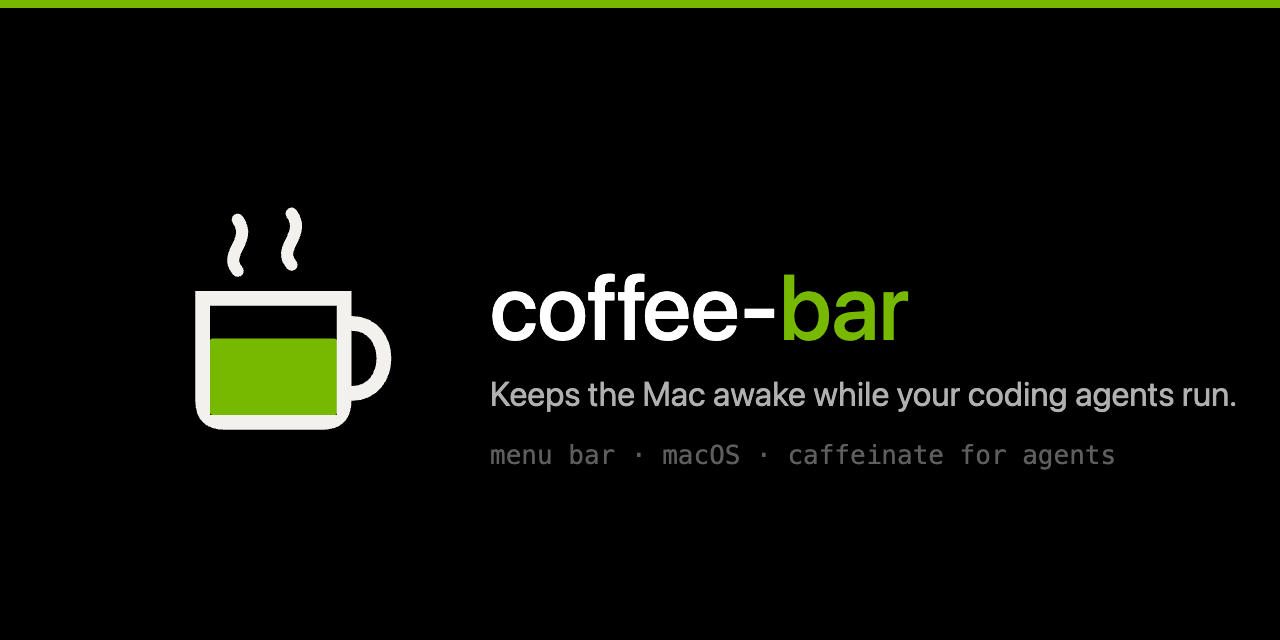
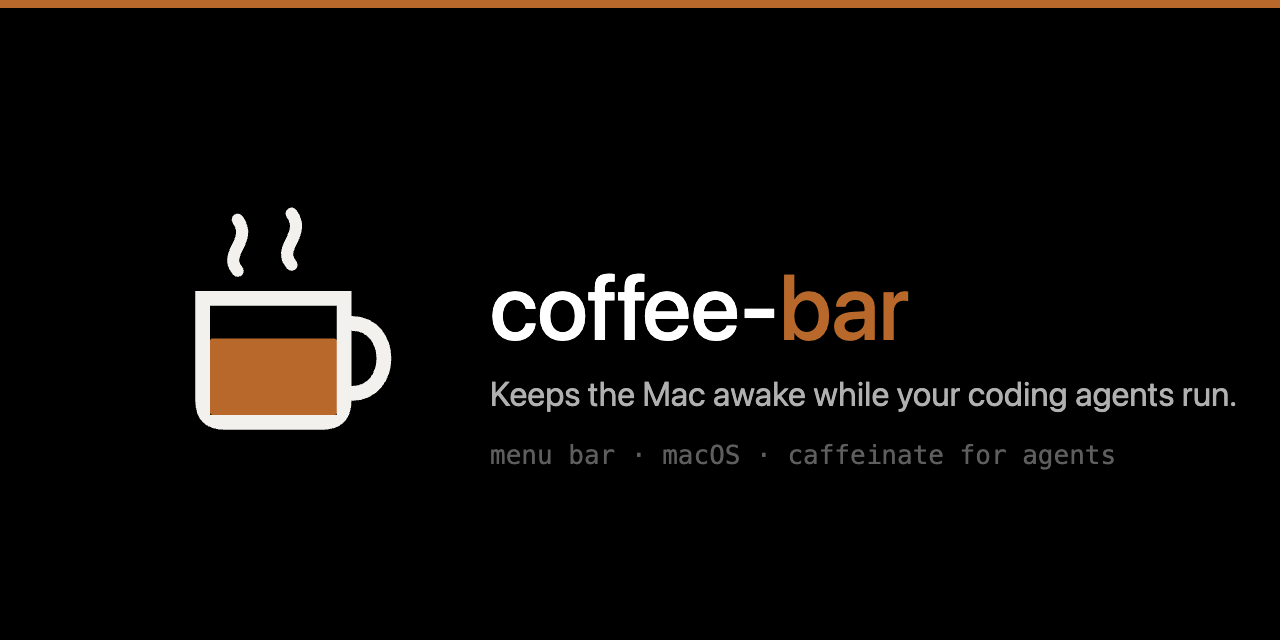
feat(art): recolour the six rasters that have no vector source
Four wordmarks and two composite GitHub images arrived as an external
export with nothing vector behind them, so they cannot be re-cut.

The remap rotates hue and keeps each pixel's saturation, value and alpha,
so an anti-aliased edge stays an edge instead of fringing. It refuses to
write a file where it matched no pixel, because a silent no-op is how a
substitution appears to succeed while changing nothing.

Appearance comes from an explicit table, not from a 'dark' substring in
the path. Both github/ images carry no appearance word and sit on
#000000, so a name test would hand them the light token, which is 3.92:1
on their own background and fails 4.5:1. The dark token is 5.05:1. The
table refuses a file it does not list rather than guessing a default,
and the census cannot see this class of mistake.

Changed region(s): [[0.0, 0.0, 1.0, 0.0312], [0.1562, 0.5312, 0.2812, 0.6562], [0.5938, 0.4375, 0.7188, 0.5312]]

diff --git a/assets/art/remap_test.py b/assets/art/remap_test.py
@@ -1,0 +1,232 @@
+#!/usr/bin/env python3
+# Copyright 2026 Carlos Eduardo Arango Gutierrez
+# SPDX-License-Identifier: Apache-2.0
+"""Checks for assets/art/remap.py — the recolour for the rasters with no source.
+
+Six files were delivered as an external export with no vector behind them, so
+they cannot be re-cut and are recoloured pixel by pixel. That makes this script
+destructive and unrepeatable: it rewrites shipped art in place, and the census
+that follows only proves the GREEN is gone, not that what replaced it is right.
+So the tests below pin what the census cannot see.
+
+Each test names the bug it catches. The colour facts are derived independently
+of remap.py: the two roast tokens come from assets/art/README.md, the composite
+expectations come from alpha algebra, and the routing expectation comes from the
+WCAG contrast formula implemented here rather than from remap.py's own table.
+
+Run: python3 assets/art/remap_test.py
+"""
+import importlib.util
+import pathlib
+import subprocess
+import sys
+import tempfile
+
+from PIL import Image
+
+REMAP_PATH = pathlib.Path(__file__).with_name("remap.py")
+
+# Resolve the subject relative to THIS file. A harness that reaches for a
+# copy somewhere else green-lights the wrong artifact.
+_spec = importlib.util.spec_from_file_location("remap_under_test", REMAP_PATH)
+remap_mod = importlib.util.module_from_spec(_spec)
+_spec.loader.exec_module(remap_mod)
+
+RETIRED = (0x76, 0xB9, 0x00)  # the accent being removed
+ROAST_LIGHT = (0xA2, 0x57, 0x1E)  # state, light appearance
+ROAST_DARK = (0xB8, 0x68, 0x2A)  # state, dark appearance
+
+ART = pathlib.Path(__file__).parent
+THE_SIX = [
+    ART / "github" / "readme-header-1600x400.png",
+    ART / "github" / "social-preview-1280x640.png",
+    ART / "wordmark" / "coffee-bar-wordmark-light.png",
+    ART / "wordmark" / "coffee-bar-wordmark-light-2x.png",
+    ART / "wordmark" / "coffee-bar-wordmark-dark.png",
+    ART / "wordmark" / "coffee-bar-wordmark-dark-2x.png",
+]
+
+
+def make_png(path, pixels):
+    """Write a 1-row RGBA PNG holding exactly `pixels`."""
+    image = Image.new("RGBA", (len(pixels), 1))
+    image.putdata([p if len(p) == 4 else p + (255,) for p in pixels])
+    image.save(path)
+    return path
+
+
+def read_png(path):
+    return list(Image.open(path).convert("RGBA").getdata())
+
+
+def relative_luminance(rgb):
+    """WCAG 2.1 relative luminance. Implemented here, not imported."""
+    out = 0.0
+    for channel, weight in zip(rgb, (0.2126, 0.7152, 0.0722)):
+        c = channel / 255
+        c = c / 12.92 if c <= 0.03928 else ((c + 0.055) / 1.055) ** 2.4
+        out += weight * c
+    return out
+
+
+def contrast(fg, bg):
+    a, b = relative_luminance(fg), relative_luminance(bg)
+    hi, lo = max(a, b), min(a, b)
+    return (hi + 0.05) / (lo + 0.05)
+
+
+def background_of(path):
+    """The most common opaque colour in a file — what the art was exported onto."""
+    colours = Image.open(path).convert("RGBA").getcolors(2_000_000)
+    return max((c for c in colours if c[1][3] == 255), key=lambda c: c[0])[1][:3]
+
+
+def test_the_retired_accent_lands_exactly_on_its_token() -> None:
+    """A solid #76B900 pixel must become the palette token, to the byte.
+
+    Bug this catches: ratios picked by eye instead of derived. The accent
+    then lands NEAR the token, so the six rasters carry a roast that no
+    other surface in the product uses and the palette quietly forks.
+    """
+    for target, expected in (("#A2571E", ROAST_LIGHT), ("#B8682A", ROAST_DARK)):
+        with tempfile.TemporaryDirectory() as tmp:
+            path = make_png(pathlib.Path(tmp) / "solid.png", [RETIRED])
+            remap_mod.remap(str(path), target)
+            got = read_png(path)[0]
+            assert got == expected + (255,), (
+                f"#76B900 -> {got[:3]} under target {target}, expected {expected}; "
+                "the remapped accent is not the palette token")
+
+
+def test_an_anti_aliased_edge_keeps_its_coverage() -> None:
+    """A partly-covered edge pixel must stay partly covered, not become solid.
+
+    Bug this catches: a flat replace that stamps the token onto every matched
+    pixel. The liquid's anti-aliased edge collapses to a hard step and the
+    shape reads jagged at 1x.
+
+    Expectations are alpha algebra, not remap.py's output: green composited
+    over black at coverage a is a*green, and the correct result is a*token.
+    One 8-bit step of tolerance covers the rounding of the source pixel.
+    """
+    coverages = [0.35, 0.5, 0.75, 0.9]
+    sources = [tuple(round(a * c) for c in RETIRED) for a in coverages]
+    with tempfile.TemporaryDirectory() as tmp:
+        path = make_png(pathlib.Path(tmp) / "ramp.png", sources)
+        remap_mod.remap(str(path), "#B8682A")
+        got = read_png(path)
+
+    for a, src, out in zip(coverages, sources, got):
+        ideal = tuple(round(a * c) for c in ROAST_DARK)
+        drift = max(abs(x - y) for x, y in zip(out[:3], ideal))
+        assert drift <= 1, (
+            f"coverage {a}: {src} -> {out[:3]}, expected about {ideal} "
+            f"(off by {drift}); the anti-aliased ramp was not preserved")
+        assert out[3] == 255, f"coverage {a}: alpha changed to {out[3]}"
+
+
+def test_a_file_with_no_green_is_refused_and_left_untouched() -> None:
+    """No match must abort loudly AND leave the file byte-identical.
+
+    Bug this catches: the silent no-op. A substitution that matches nothing
+    still exits 0 and still rewrites the file, so a re-encoded but unchanged
+    raster looks like a successful recolour in both the log and the diff.
+    """
+    with tempfile.TemporaryDirectory() as tmp:
+        path = make_png(pathlib.Path(tmp) / "no-green.png",
+                        [(0xFF, 0xFF, 0xFF), ROAST_LIGHT, (0x12, 0x12, 0x14)])
+        before = path.read_bytes()
+        try:
+            remap_mod.remap(str(path), "#A2571E")
+        except SystemExit as exc:
+            assert "no pixel in the green band" in str(exc), (
+                f"aborted with an unhelpful message: {exc}")
+        else:
+            raise AssertionError(
+                "a file with no green was accepted; a no-op recolour reports success")
+        assert path.read_bytes() == before, (
+            "the file was rewritten even though nothing matched")
+
+
+def test_each_file_takes_the_token_that_passes_contrast_on_its_own_background() -> None:
+    """Appearance follows the exported background, not a word in the filename.
+
+    Bug this catches: routing on `"dark" in path`. Both github/ images carry
+    no appearance word and sit on #000000, so a name test hands them the LIGHT
+    token — which is 3.92:1 on their own background and fails 4.5:1. The census
+    goes green and the art ships under-contrast.
+
+    The expected token is derived here from the WCAG formula against the
+    background actually found in the file, not read from remap.py's table.
+    """
+    for path in THE_SIX:
+        assert path.exists(), f"{path} is missing"
+        bg = background_of(path)
+        declared = remap_mod.APPEARANCE.get(path.name)
+        assert declared is not None, f"{path.name} has no declared appearance"
+        token = tuple(int(remap_mod.TARGETS[declared].lstrip("#")[i:i + 2], 16)
+                      for i in (0, 2, 4))
+        other = ROAST_DARK if token == ROAST_LIGHT else ROAST_LIGHT
+        assert contrast(token, bg) >= 4.5, (
+            f"{path.name}: on background {bg} the '{declared}' token {token} "
+            f"is {contrast(token, bg):.2f}:1 and fails 4.5:1")
+        assert contrast(token, bg) > contrast(other, bg), (
+            f"{path.name}: on background {bg} the '{declared}' token reads worse "
+            f"({contrast(token, bg):.2f}:1) than the other token "
+            f"({contrast(other, bg):.2f}:1)")
+
+
+def test_a_file_with_no_declared_appearance_is_refused() -> None:
+    """An unlisted file must abort, not fall back to a default.
+
+    Bug this catches: a seventh file added later picks up whichever token the
+    fallback happens to be, and nothing in the census can tell.
+    """
+    with tempfile.TemporaryDirectory() as tmp:
+        path = make_png(pathlib.Path(tmp) / "not-declared.png", [RETIRED])
+        proc = subprocess.run([sys.executable, str(REMAP_PATH), str(path)],
+                              capture_output=True, text=True)
+        assert proc.returncode != 0, (
+            "an undeclared file was recoloured with a guessed appearance")
+        assert "appearance" in (proc.stderr + proc.stdout), (
+            f"the refusal did not say why. stderr: {proc.stderr!r}")
+        assert read_png(path)[0][:3] == RETIRED, "the undeclared file was rewritten"
+
+
+def test_colours_that_were_never_green_are_left_alone() -> None:
+    """Only the green band moves. Everything else is byte-identical.
+
+    Bug this catches: a band widened until it reaches the ink, the warm
+    neutral base or the roast token itself, shifting colours the recolour
+    was never meant to touch.
+    """
+    keep = [(0xFF, 0xFF, 0xFF), (0x00, 0x00, 0x00), (0x12, 0x12, 0x14),
+            (0xF2, 0xF1, 0xEE), (0xEF, 0xED, 0xE7), ROAST_LIGHT, ROAST_DARK,
+            (0xFF, 0x95, 0x00), (0x6B, 0x76, 0x83)]
+    with tempfile.TemporaryDirectory() as tmp:
+        path = make_png(pathlib.Path(tmp) / "palette.png", keep + [RETIRED])
+        remap_mod.remap(str(path), "#A2571E")
+        got = read_png(path)
+
+    for expected, out in zip(keep, got):
+        assert out[:3] == expected, (
+            f"{expected} was shifted to {out[:3]}; a colour that was never "
+            "green was recoloured")
+
+
+def main() -> int:
+    tests = [v for k, v in sorted(globals().items()) if k.startswith("test_")]
+    failed = 0
+    for t in tests:
+        try:
+            t()
+            print(f"PASS {t.__name__}")
+        except AssertionError as exc:
+            failed += 1
+            print(f"FAIL {t.__name__}: {exc}")
+    print(f"\n{len(tests) - failed}/{len(tests)} passed")
+    return 1 if failed else 0
+
+
+if __name__ == "__main__":
+    sys.exit(main())

diff --git a/assets/art/remap.py b/assets/art/remap.py
@@ -1,0 +1,78 @@
+#!/usr/bin/env python3
+# Copyright 2026 Carlos Eduardo Arango Gutierrez
+# SPDX-License-Identifier: Apache-2.0
+"""Recolour the rasters that have no vector source.
+
+Four wordmarks and two composite GitHub images were delivered as an external
+export with no vector behind them, so they cannot be re-cut. This rotates the
+retired accent's HUE and keeps each pixel's saturation, value and alpha, which
+is what stops anti-aliased edges fringing: a partly-green edge pixel stays
+partly-roast at the same lightness.
+"""
+import colorsys
+import os
+import sys
+from PIL import Image
+
+RETIRED = "#76B900"
+TARGETS = {"light": "#A2571E", "dark": "#B8682A"}
+
+# A file's appearance is the background it was exported onto, NOT a word in its
+# name. Both github/ images carry no appearance word and sit on #000000, so a
+# `"dark" in path` test hands them the LIGHT token, which fails contrast on
+# their own background: #A2571E on #000000 is 3.92:1, #B8682A is 5.05:1. The
+# table is explicit and an unlisted file is refused rather than guessed at.
+APPEARANCE = {
+    "readme-header-1600x400.png": "dark",
+    "social-preview-1280x640.png": "dark",
+    "coffee-bar-wordmark-light.png": "light",
+    "coffee-bar-wordmark-light-2x.png": "light",
+    "coffee-bar-wordmark-dark.png": "dark",
+    "coffee-bar-wordmark-dark-2x.png": "dark",
+}
+
+
+def hsv_of(hex_colour):
+    h = hex_colour.lstrip("#")
+    rgb = tuple(int(h[i:i + 2], 16) / 255 for i in (0, 2, 4))
+    return colorsys.rgb_to_hsv(*rgb)
+
+
+def remap(path, target_hex):
+    src_h, src_s, src_v = hsv_of(RETIRED)
+    target_h, target_s, target_v = hsv_of(target_hex)
+    # RATIOS, derived, not constants picked by eye. A pixel that is exactly the
+    # retired accent lands exactly on the target, and a half-blended edge pixel
+    # keeps its blend. Verified: #76B900 maps to #A2571E and to #B8682A exactly.
+    s_ratio = target_s / src_s
+    v_ratio = target_v / src_v
+    image = Image.open(path).convert("RGBA")
+    pixels = image.load()
+    width, height = image.size
+    touched = 0
+    for y in range(height):
+        for x in range(width):
+            r, g, b, a = pixels[x, y]
+            if a == 0:
+                continue
+            h, s, v = colorsys.rgb_to_hsv(r / 255, g / 255, b / 255)
+            if not (70 / 360 <= h <= 100 / 360 and s > 0.25 and v > 0.20):
+                continue
+            # Scale s and v by the derived ratios so the edge ramp survives.
+            nr, ng, nb = colorsys.hsv_to_rgb(target_h,
+                                             min(1.0, s * s_ratio),
+                                             min(1.0, v * v_ratio))
+            pixels[x, y] = (round(nr * 255), round(ng * 255), round(nb * 255), a)
+            touched += 1
+    if touched == 0:
+        raise SystemExit(f"error: {path} had no pixel in the green band")
+    image.save(path)
+    print(f"{path}: {touched} pixels remapped -> {target_hex}")
+
+
+if __name__ == "__main__":
+    for arg in sys.argv[1:]:
+        appearance = APPEARANCE.get(os.path.basename(arg))
+        if appearance is None:
+            raise SystemExit(f"error: {arg} has no declared appearance")
+        remap(arg, TARGETS[appearance])
